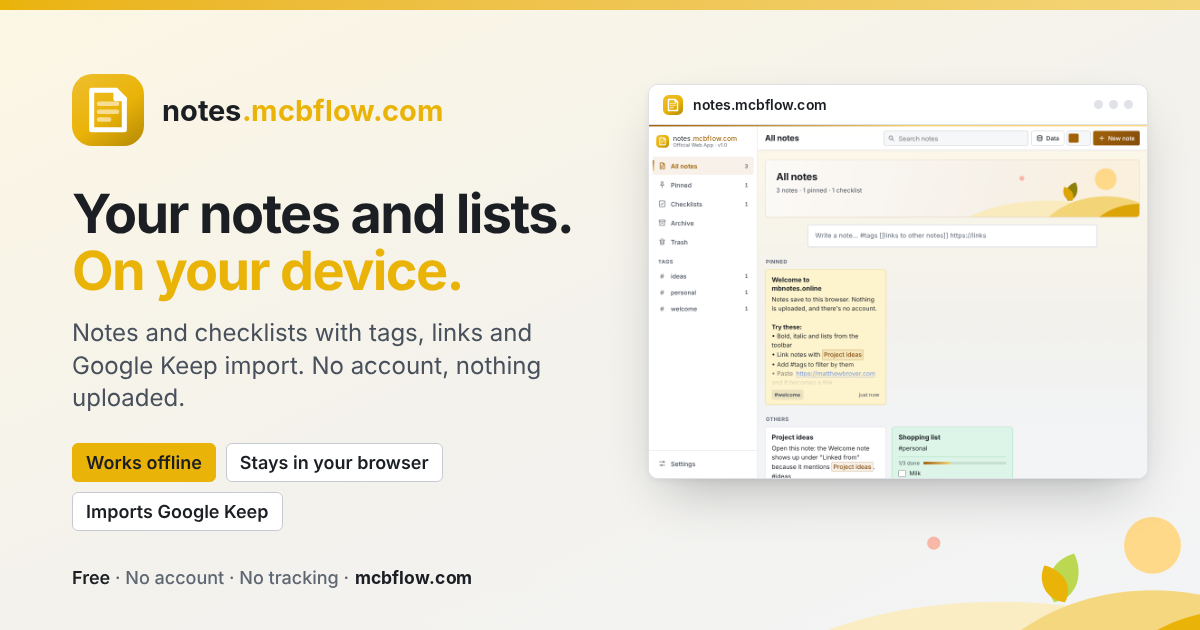
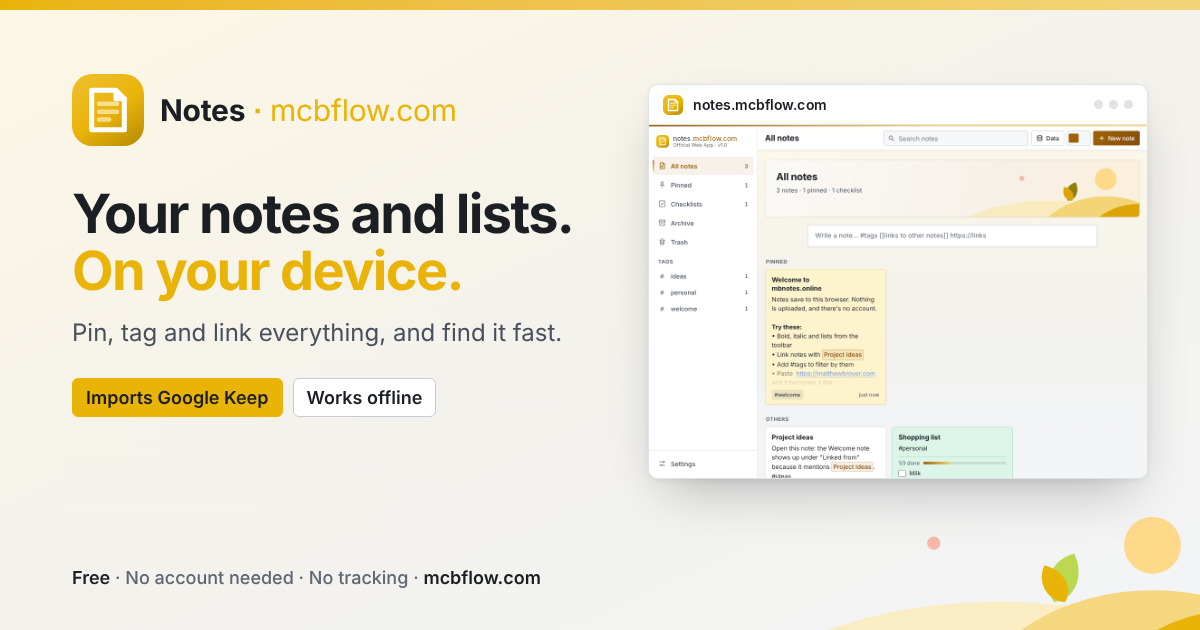
Add files via upload

diff --git a/index.html b/index.html
@@ -5,7 +5,7 @@
 <meta name="viewport" content="width=device-width, initial-scale=1, viewport-fit=cover">
 <meta http-equiv="Content-Security-Policy" content="default-src 'self'; script-src 'self'; style-src 'self' 'unsafe-inline'; img-src 'self' data: blob:; media-src 'self' blob:; frame-src blob:; font-src 'self'; connect-src 'self' https://rxvcjdwmvxhwbdwncfhj.supabase.co; manifest-src 'self'; worker-src 'self'; object-src 'none'; base-uri 'self'; form-action 'none'">
 <title>Notes | All notes</title>
-<meta name="description" content="Free notes app that runs in your browser. Write notes and checklists, pin, tag and link them, and import from Google Keep. No account; your notes stay on your device.">
+<meta name="description" content="Free notes app that runs in your browser. Write notes and checklists, pin, tag and link them, and import from Google Keep. No account needed; your notes stay on your device.">
 <link rel="canonical" href="https://notes.mcbflow.com/">
 <meta name="theme-color" content="#EAB308">
 <meta name="color-scheme" content="light dark">
@@ -19,18 +19,18 @@
 <link rel="apple-touch-icon" href="apple-touch-icon.png">
 <meta property="og:type" content="website">
 <meta property="og:site_name" content="notes.mcbflow.com">
-<meta property="og:title" content="notes.mcbflow.com · Free notes and checklists in your browser">
-<meta property="og:description" content="Write notes and checklists, pin, tag and link them, and import from Google Keep. No account; your notes stay on your device.">
+<meta property="og:title" content="Notes: Free notes and checklists in your browser">
+<meta property="og:description" content="Write notes and checklists, pin, tag and link them, and import from Google Keep. No account needed; your notes stay on your device.">
 <meta property="og:url" content="https://notes.mcbflow.com/">
 <meta property="og:image" content="https://notes.mcbflow.com/og-image.png">
 <meta property="og:image:width" content="1200">
 <meta property="og:image:height" content="630">
-<meta property="og:image:alt" content="notes.mcbflow.com: notes and checklists that stay on your device, shown in the app">
+<meta property="og:image:alt" content="Notes: Notes and checklists that stay on your device, shown in the app">
 <meta name="twitter:card" content="summary_large_image">
-<meta name="twitter:title" content="notes.mcbflow.com · Free notes and checklists in your browser">
-<meta name="twitter:description" content="Write notes and checklists, pin, tag and link them, and import from Google Keep. No account; your notes stay on your device.">
+<meta name="twitter:title" content="Notes: Free notes and checklists in your browser">
+<meta name="twitter:description" content="Write notes and checklists, pin, tag and link them, and import from Google Keep. No account needed; your notes stay on your device.">
 <meta name="twitter:image" content="https://notes.mcbflow.com/og-image.png">
-<script type="application/ld+json">{"@context":"https://schema.org","@type":"WebApplication","name":"notes.mcbflow.com","alternateName":"Notes","url":"https://notes.mcbflow.com/","applicationCategory":"ProductivityApplication","operatingSystem":"Any (runs in a web browser)","description":"Free notes app that runs in your browser. Write notes and checklists, pin, tag and link them, and import from Google Keep. No account; notes stay on your device.","isAccessibleForFree":true,"offers":{"@type":"Offer","price":"0","priceCurrency":"USD"},"author":{"@type":"Person","name":"Matthew Broyer","url":"https://matthewbroyer.com/"}}</script>
+<script type="application/ld+json">{"@context":"https://schema.org","@type":"WebApplication","name":"notes.mcbflow.com","alternateName":"Notes","url":"https://notes.mcbflow.com/","applicationCategory":"ProductivityApplication","operatingSystem":"Any (runs in a web browser)","description":"Free notes app that runs in your browser. Write notes and checklists, pin, tag and link them, and import from Google Keep. No account needed; notes stay on your device.","isAccessibleForFree":true,"offers":{"@type":"Offer","price":"0","priceCurrency":"USD"},"author":{"@type":"Person","name":"Matthew Broyer","url":"https://matthewbroyer.com/"}}</script>
 <script src="theme-boot.js"></script>
 <link rel="stylesheet" href="mb-suite-core.css">
 <link rel="stylesheet" href="app.css">

diff --git a/privacy.html b/privacy.html
@@ -18,7 +18,7 @@ body{margin:0;font:16px/1.6 var(--font);color:var(--ink);background:linear-gradi
 header{max-width:760px;margin:0 auto;padding:20px 16px 0;display:flex;align-items:center;gap:12px}
 header a.brand{display:flex;align-items:center;gap:10px;color:var(--ink);text-decoration:none;font-weight:650}
 header a.brand img{width:32px;height:32px}
-header a.brand .tld{font-style:normal;font-weight:500;color:var(--accent)} header a.brand .sep{margin:0 .32em 0 .34em;color:var(--muted);font-weight:400}
+header a.brand .tld{font-style:normal;font-weight:400;color:var(--accent)} header a.brand .sep{margin:0 .32em 0 .34em;color:var(--accent);font-weight:700}
 header a.brand:focus-visible,a:focus-visible{outline:2px solid var(--accent);outline-offset:2px;border-radius:4px}
 main{max-width:760px;margin:16px auto 48px;padding:24px 20px;background:var(--surface);border:1px solid var(--border);border-radius:var(--r)}
 h1{font-size:28px;line-height:1.2;margin:0 0 4px;letter-spacing:-.01em}

diff --git a/terms.html b/terms.html
@@ -18,7 +18,7 @@ body{margin:0;font:16px/1.6 var(--font);color:var(--ink);background:linear-gradi
 header{max-width:760px;margin:0 auto;padding:20px 16px 0;display:flex;align-items:center;gap:12px}
 header a.brand{display:flex;align-items:center;gap:10px;color:var(--ink);text-decoration:none;font-weight:650}
 header a.brand img{width:32px;height:32px}
-header a.brand .tld{font-style:normal;font-weight:500;color:var(--accent)} header a.brand .sep{margin:0 .32em 0 .34em;color:var(--muted);font-weight:400}
+header a.brand .tld{font-style:normal;font-weight:400;color:var(--accent)} header a.brand .sep{margin:0 .32em 0 .34em;color:var(--accent);font-weight:700}
 header a.brand:focus-visible,a:focus-visible{outline:2px solid var(--accent);outline-offset:2px;border-radius:4px}
 main{max-width:760px;margin:16px auto 48px;padding:24px 20px;background:var(--surface);border:1px solid var(--border);border-radius:var(--r)}
 h1{font-size:28px;line-height:1.2;margin:0 0 4px;letter-spacing:-.01em}

diff --git a/404.html b/404.html
@@ -26,8 +26,8 @@ a:focus-visible{outline:2px solid var(--accent);outline-offset:2px;border-radius
 header{width:min(720px,100% - 32px);margin:0 auto;padding:20px 0 0}
 .brand{display:inline-flex;align-items:center;gap:10px;color:var(--ink);text-decoration:none;font-weight:650;font-size:16px}
 .brand svg{width:34px;height:34px;flex:none;border-radius:8px}
-.brand i{font-style:normal;font-weight:500;color:var(--accent)}
-.brand .sep{margin:0 .32em 0 .34em;color:var(--muted);font-weight:400}
+.brand i{font-style:normal;font-weight:400;color:var(--accent)}
+.brand .sep{margin:0 .32em 0 .34em;color:var(--accent);font-weight:700}
 main{flex:1;width:min(720px,100% - 32px);margin:18px auto 24px}
 .card{position:relative;overflow:hidden;background:var(--surface);border:1px solid var(--border);border-radius:8px;
  box-shadow:0 1px 2px rgba(20,24,31,.06),0 12px 32px -18px rgba(20,24,31,.28);padding:28px 28px 0}
